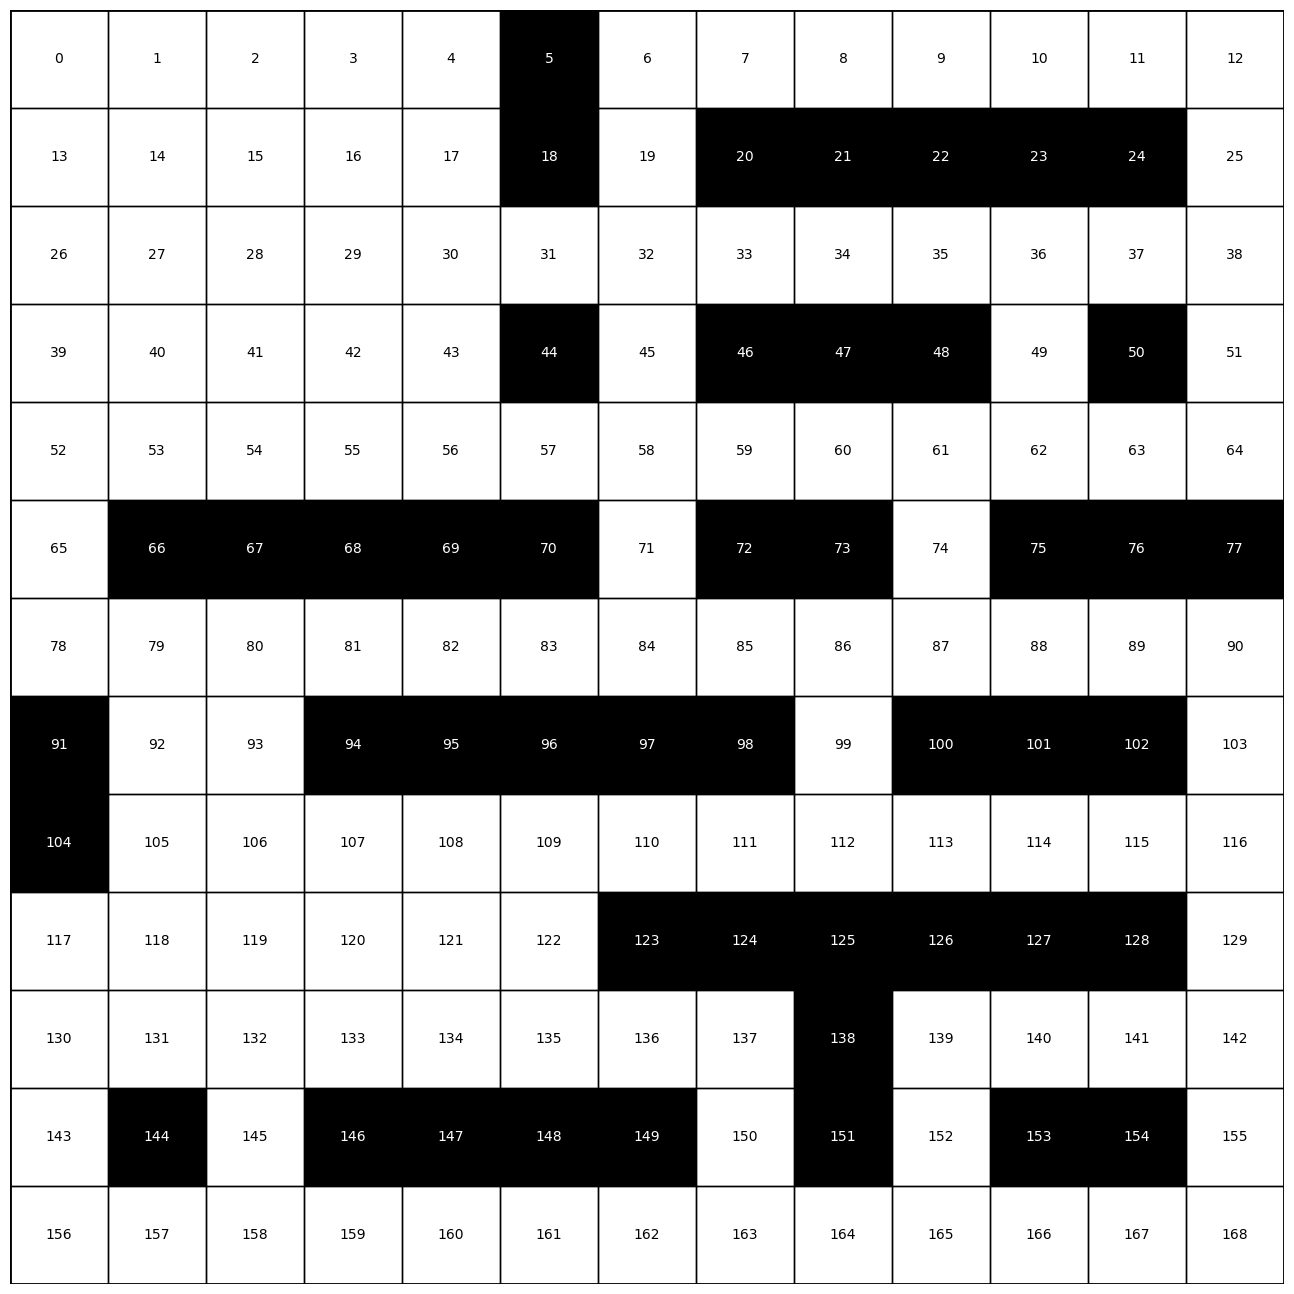
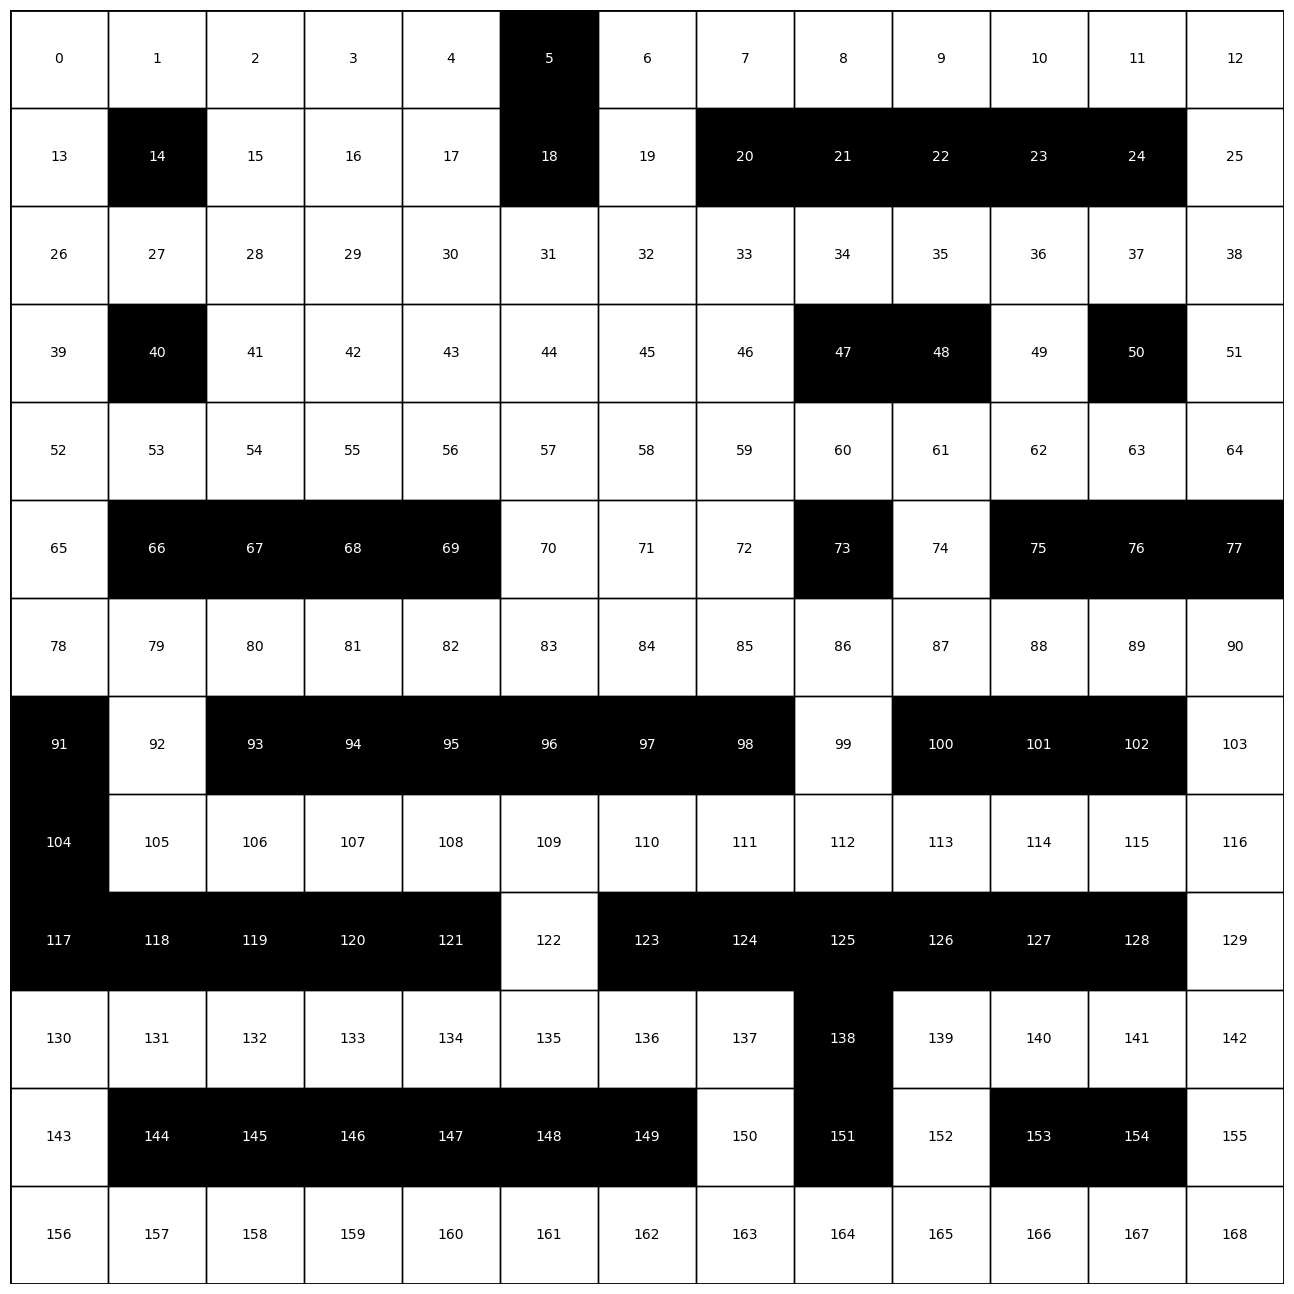
run last 2 mazes with 2 ODs

diff --git a/src/utils/create_graph.py b/src/utils/create_graph.py
@@ -338,7 +338,7 @@ def create_graphs(args):
         os.makedirs(folder_path)
 
     for percent_of_blocks in percentages_of_blocks:
-        for i in range(number_of_graphs if percent_of_blocks > 0 else 1):
+        for i in range(8,number_of_graphs if percent_of_blocks > 0 else 1):
             if graph_type == "grid":
                 name_of_graph = f"{dimension_of_graphs[0]}x{dimension_of_graphs[1]}_grid_with_random_blocks_{percent_of_blocks}per_{i}"
                 num_of_blocks = math.floor((dimension_of_graphs[0] * dimension_of_graphs[1]) * percent_of_blocks / 100)
@@ -387,7 +387,7 @@ if __name__ == "__main__":
     args.number_of_graphs = 10
     args.graph_type = "maze" # "grid" # "cube" # "manual" # maze"
     args.dimension_of_graphs = [13,13] # dimension for cube
-    args.percentages_of_blocks = [0,1,2]  # percentages of blocks to remove
+    args.percentages_of_blocks = [2]  # percentages of blocks to remove # [0,1,2]
 
     create_graphs(args)
 

diff --git a/src/main.py b/src/main.py
@@ -588,7 +588,7 @@ if __name__ == "__main__":
         args.algo = algorithm
         avgs={"uni_st": {"expansions":[], "time":[]}, "uni_ts":{"expansions":[], "time":[]}, "bi":{"expansions":[], "time":[]}, "multi":{"expansions":[], "time":[]}}
         if (graph_type=="maze" and per_blocked==0) or graph_type=="cube": number_of_graphs = 1
-        for i in list(range(0, number_of_graphs)):
+        for i in list(range(8, number_of_graphs)):
         # for i in range(number_of_graphs, number_of_graphs+1):
             # try:
             # Inputs
